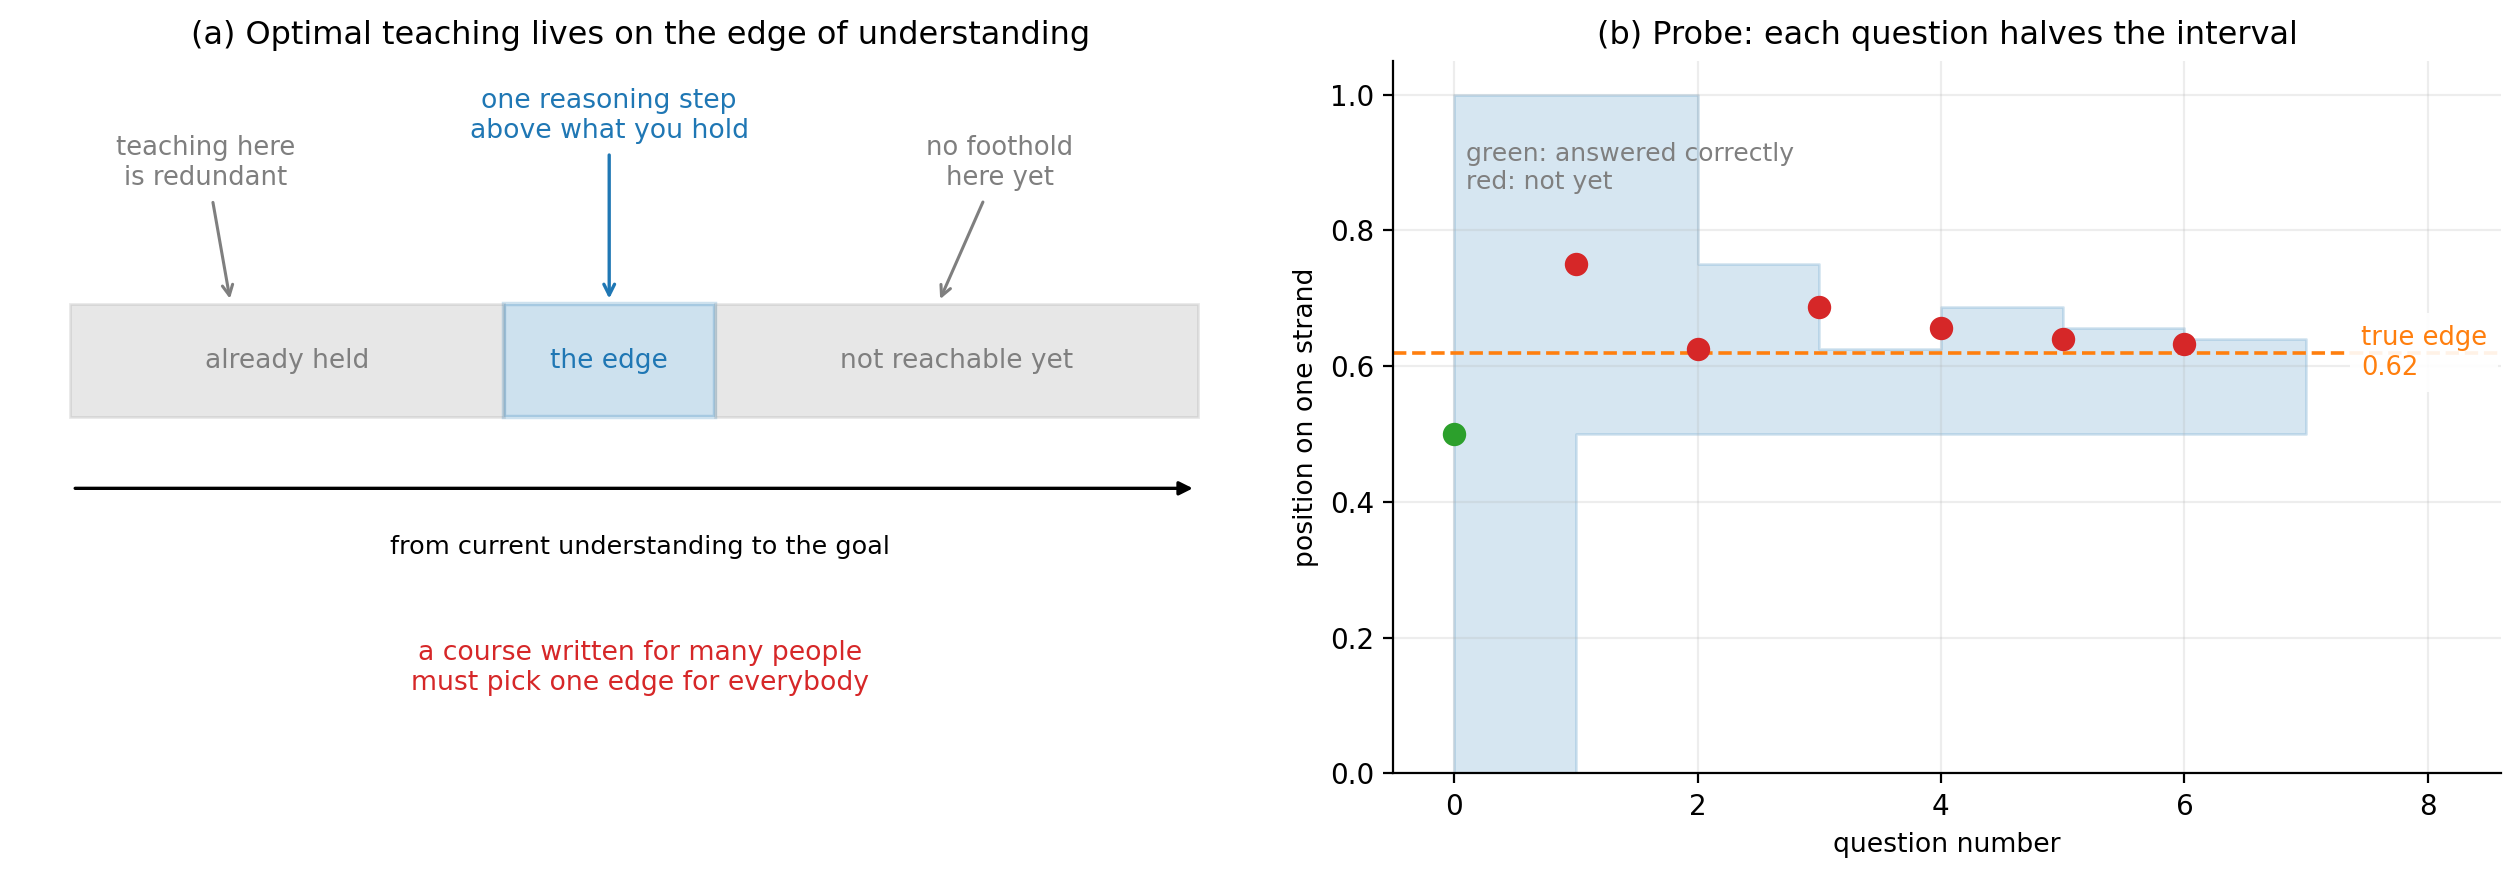
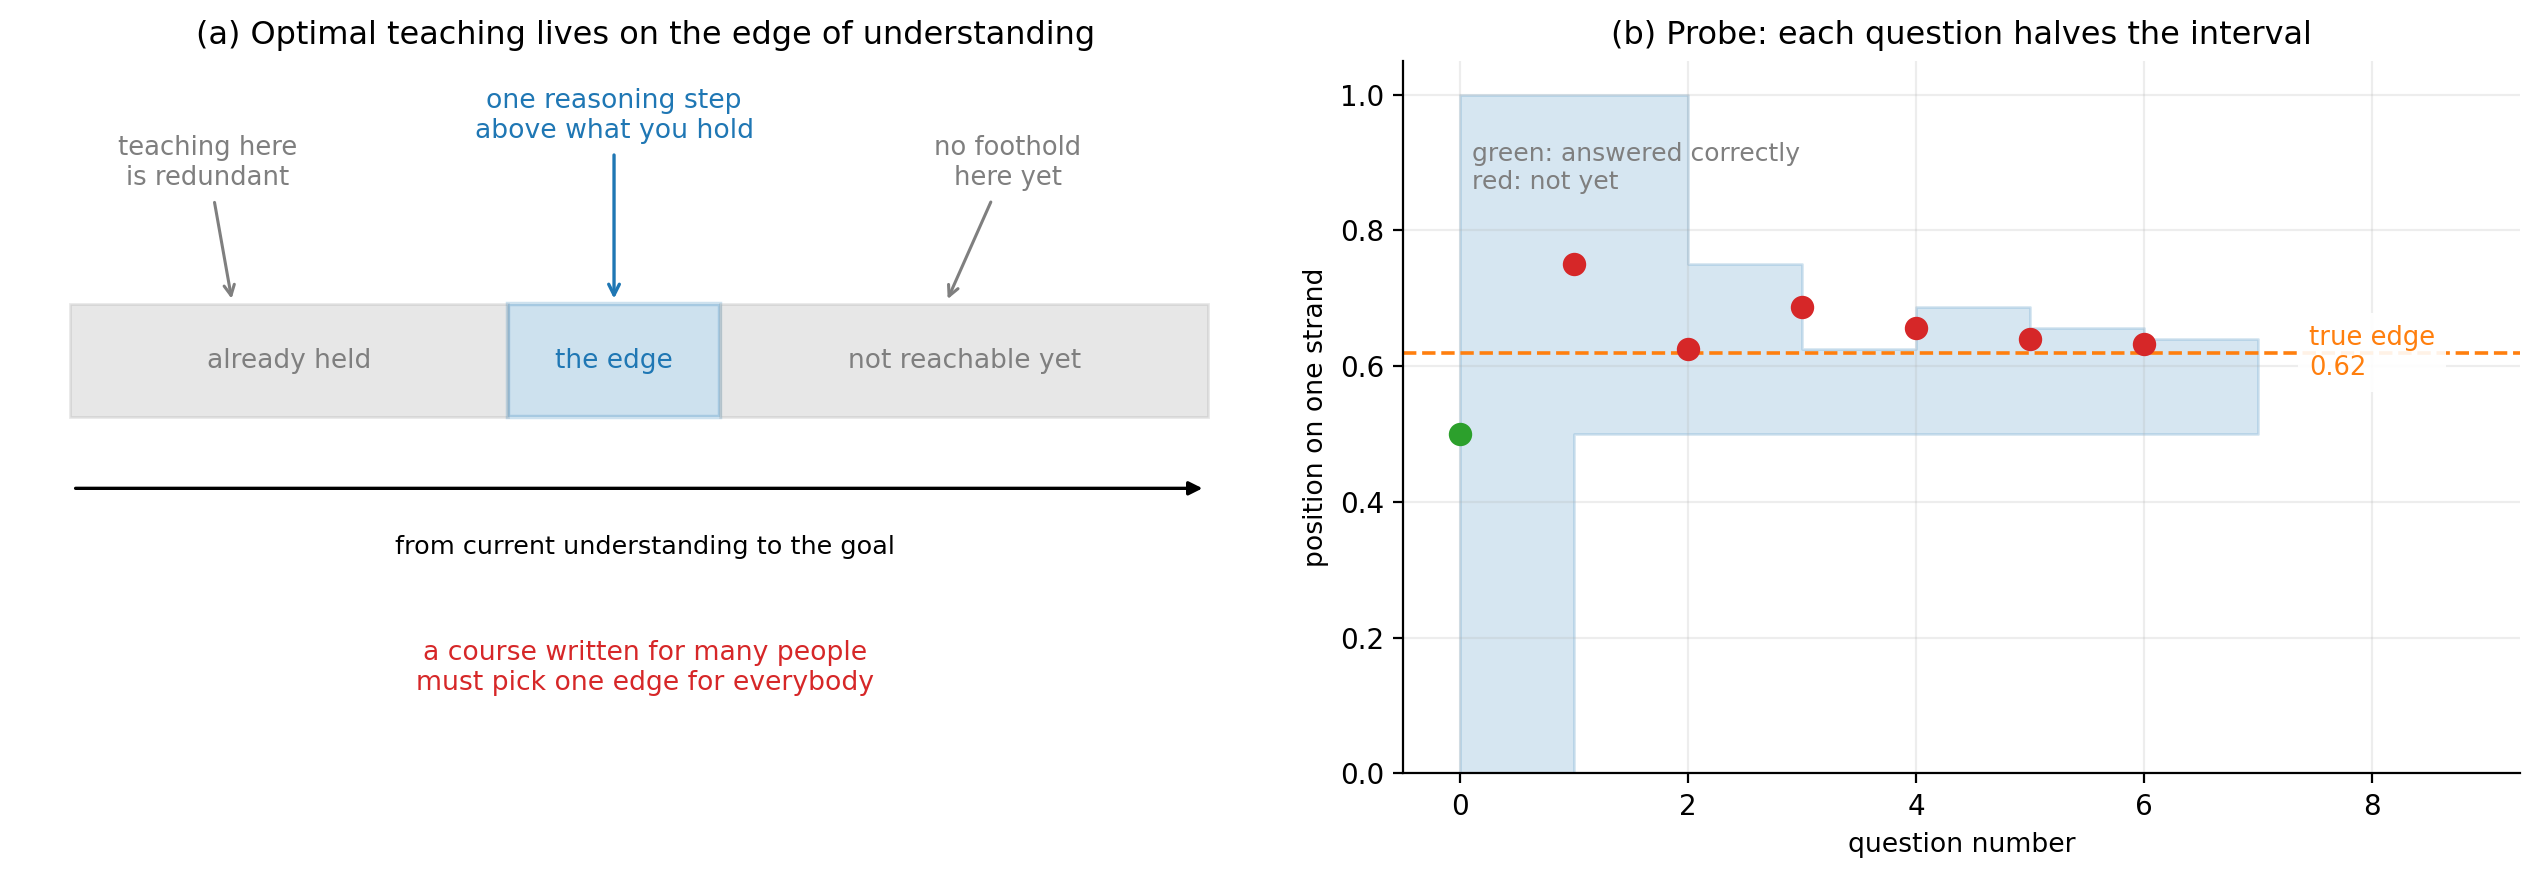
vault backup: 2026-11-06 13:19:31

diff --git a/Sight/assets/make_sight_figs.py b/Sight/assets/make_sight_figs.py
@@ -2331,7 +2331,7 @@ def fig_learning_edge():
             bbox=dict(facecolor="white", edgecolor="none", alpha=0.9))
     ax.text(0.1, 0.93, "green: answered correctly\nred: not yet",
             fontsize=9.0, color=GRAY, va="top")
-    ax.set_xlim(-0.5, 8.6)
+    ax.set_xlim(-0.5, 9.3)
     ax.set_ylim(0, 1.05)
     ax.set_xlabel("question number", fontsize=9.6)
     ax.set_ylabel("position on one strand", fontsize=9.6)
@@ -2414,23 +2414,27 @@ def fig_covector():
 
 def fig_wedge():
     """Wedge product: signed area, antisymmetric, zero on parallel inputs."""
-    fig, axes = plt.subplots(1, 3, figsize=(12.9, 4.5))
+    fig, axes = plt.subplots(1, 3, figsize=(12.9, 3.5))
 
-    def panel(ax, u, w, color, value, title, note):
-        quad = np.array([[0, 0], u, np.array(u) + np.array(w), w])
-        ax.fill(quad[:, 0], quad[:, 1], color=color, alpha=0.22)
-        ax.annotate("", xy=u, xytext=(0, 0),
-                    arrowprops=dict(arrowstyle="-|>", color=BLUE, lw=2.2,
-                                    mutation_scale=16))
+    def panel(ax, u, w, color, value, title, note, parallel=False):
+        if not parallel:
+            quad = np.array([[0, 0], u, np.array(u) + np.array(w), w])
+            ax.fill(quad[:, 0], quad[:, 1], color=color, alpha=0.22)
+        # draw w first so that a parallel u stays visible on top of it
         ax.annotate("", xy=w, xytext=(0, 0),
                     arrowprops=dict(arrowstyle="-|>", color=PURPLE, lw=2.2,
                                     mutation_scale=16))
-        ax.text(u[0] * 0.55 - 0.05, u[1] * 0.55 - 0.32, "$u$",
-                color=BLUE, fontsize=10.5)
-        ax.text(w[0] * 0.55 + 0.10, w[1] * 0.55 + 0.10, "$w$",
-                color=PURPLE, fontsize=10.5)
-        ax.set_xlim(-0.55, 3.9)
-        ax.set_ylim(-0.75, 2.9)
+        ax.annotate("", xy=u, xytext=(0, 0),
+                    arrowprops=dict(arrowstyle="-|>", color=BLUE, lw=2.2,
+                                    mutation_scale=16))
+        ax.text(u[0] * 0.3 - 0.05, u[1] * 0.3 - 0.22, "$u$",
+                color=BLUE, fontsize=10.5, ha="right",
+                bbox=dict(facecolor="white", edgecolor="none", alpha=0.75))
+        ax.text(w[0] * 0.62 + 0.10, w[1] * 0.62 + 0.14, "$w$",
+                color=PURPLE, fontsize=10.5, ha="left",
+                bbox=dict(facecolor="white", edgecolor="none", alpha=0.75))
+        ax.set_xlim(-0.45, 3.5)
+        ax.set_ylim(-0.45, 1.5)
         ax.set_aspect("equal")
         ax.axis("off")
         ax.set_title(title, fontsize=11)
@@ -2443,8 +2447,9 @@ def fig_wedge():
           "(a) $u$ then $w$", "counter-clockwise: area +1")
     panel(axes[1], (0, 1), (1, 0), ORANGE, "$dx\\wedge dy\\,(w,u)=-1$",
           "(b) the two inputs swapped", "clockwise: the sign flips")
-    panel(axes[2], (2, 0.4), (3, 0.6), RED, "$dx\\wedge dy\\,(u,w)=0$",
-          "(c) $w$ parallel to $u$", "no area, so the machine returns 0")
+    panel(axes[2], (1.2, 0.3), (2.0, 0.5), RED, "$dx\\wedge dy\\,(u,w)=0$",
+          "(c) $w$ parallel to $u$", "no area, so the machine returns 0",
+          parallel=True)
 
     fig.suptitle("A wedge product is bilinear and antisymmetric: "
                  "subtracting the two orderings kills the symmetric part",

diff --git a/Sight/AI 私人教师 一对一教学系统.md b/Sight/AI 私人教师 一对一教学系统.md
@@ -1,0 +1,217 @@
+来源：Amos Blomqvist 的视频 *How I Use AI to Learn Things*（[[Raw/How I Use AI to Learn Things]]，YouTube；配套仓库 `github.com/amosblomqvist/learn`）。核心：把“一对一教学”做成系统——先用选择题探测你理解的边界，再画出依赖图规划，然后一次只走一个推理步；把找资料、排顺序、查证这些杂活全部收走，让挣扎只发生在材料里。
+
+## 我们习惯的学习是一个多对多网络
+
+标准模式里，一个出口（老师、书、课程）面向许多学生；同时一个学生又从许多出口学习：
+
+```mermaid
+%%{init: {'theme':'base','themeCSS':'.nodeLabel{color:#E5E7EB!important;fill:#E5E7EB!important}.edgeLabel p{background-color:#131312!important}.edgeLabel{color:#E5E7EB!important}svg{background:transparent!important}','themeVariables':{'primaryColor':'#1E1E2E','primaryTextColor':'#E5E7EB','primaryBorderColor':'#A78BFA','secondaryColor':'#1E1E2E','tertiaryColor':'#1E1E2E','lineColor':'#9CA3AF','textColor':'#E5E7EB','mainBkg':'#1E1E2E','nodeBorder':'#A78BFA','clusterBkg':'#131312','clusterBorder':'#3A3A4A','edgeLabelBackground':'#131312','actorBkg':'#1E1E2E','actorBorder':'#A78BFA','actorTextColor':'#E5E7EB','actorLineColor':'#9CA3AF','signalColor':'#9CA3AF','signalTextColor':'#E5E7EB','labelBoxBkgColor':'#1E1E2E','labelBoxBorderColor':'#A78BFA','labelTextColor':'#E5E7EB','loopTextColor':'#E5E7EB','noteBkgColor':'#1E1E2E','noteBorderColor':'#A78BFA','noteTextColor':'#E5E7EB','stateBkg':'#1E1E2E','stateBorder':'#A78BFA','stateTextColor':'#E5E7EB','transitionColor':'#9CA3AF','transitionLabelColor':'#E5E7EB','fontFamily':'Noto Sans CJK SC, sans-serif','fontSize':'16px'}}}%%
+flowchart LR
+    subgraph OUT["许多出口"]
+        direction TB
+        A1["老师"]
+        A2["书 / 课程"]
+        A3["论文 / 视频"]
+    end
+    subgraph IN["许多学生"]
+        direction TB
+        S1["学生 A"]
+        S2["学生 B"]
+    end
+    A1 --> S1
+    A1 --> S2
+    A2 --> S1
+    A3 --> S2
+classDef default fill:#1E1E2E,stroke:#A78BFA,stroke-width:1.5px,color:#E5E7EB
+linkStyle default stroke:#9CA3AF
+```
+
+两个方向各自产生一种低效。
+
+## 一个出口教许多人
+
+为许多人设计的出口，不可能对其中任何一个人最优。因为“最优”的教学完全取决于学习者当前的理解——既包括从当前理解到目标理解的整条教学弧，也包括途中的每一次解释。
+
+最优路径要同时最小化两种内容：
+
+- 你已经掌握的东西：重复，浪费时间；
+- 你还接不住的东西：没有落点，听完也挂不上去。
+
+所以它恰好工作在**理解的边缘**上：比你已经持有的多一个推理步。理想情况是一个老师只教一个学生。
+
+![[S17_learning_edge.png]]
+*左：教学的三个区间——已掌握、边缘、还够不着；为许多人写的课只能挑一个边缘给所有人。右：探针在每条线索上二分，七道题就把边界夹到 0.01 以内。*
+
+## 一个学生向许多出口学
+
+反方向的成本更隐蔽。每个出口有自己的风格、记号、可靠程度和界面，切换本身要消耗心智努力，而这些努力没有花在材料上。
+
+更深的一层成本是**信任**。面对不熟悉的出口，大脑会留一手：在它证明自己、变得足够熟悉之前，不会完全接受一个事实。用一个例子说明：同一个关于毛球定理（hairy ball theorem）的解释，一个出自 3Blue1Brown 的视频，一个出自 X 上陌生人的帖子。解释逐字相同，但从熟悉的来源学得更好——大脑更容易内化它信任的出口给出的信息。
+
+于是理想情况变成：一个学生也只有一个老师。
+
+## 一对一：换掉接口，不是减少来源
+
+对“只有一个老师”的常见反对是：那你只得到一种视角。Blomqvist 认为这个反对混淆了**来源**和**接口**。老师并不减少来源，他把许多来源聚合起来，通过一个界面交付；丢掉的只是切换成本，不是多样性。
+
+当老师是 AI 时，信任不靠时间积累，而是被**设计进系统**：可靠的核验与事实检查。它有两个作用：
+
+1. 信息正确——不能让模型编造；
+2. 让学习更省力——知道系统可靠时，大脑不必一边学一边防备。
+
+一句话：**一个接口，贴合一个大脑，覆盖所有来源。**
+
+## 两条原则
+
+两个低效对应两条设计原则：
+
+- **最优教学**：教学路径和每一步解释，都按你当前的理解来定；
+- **最优心智资源分配**：把认知资源集中到材料本身。
+
+第二条不等于“降低难度”。恰恰相反，目标是**最大化挣扎**——但要挣扎在材料里，而不是挣扎在后勤上：规划、找资源、验证事实、决定学什么、按什么顺序学。这些都应该由系统吸收。
+
+可以这样记账：同样一小时，如果大半花在找资料、判断该信谁、排学习顺序，真正用于思考的时间就被挤掉了；系统的任务是把比例倒过来。
+
+## 流程：probe → plan → teach
+
+```mermaid
+%%{init: {'theme':'base','themeCSS':'.nodeLabel{color:#E5E7EB!important;fill:#E5E7EB!important}.edgeLabel p{background-color:#131312!important}.edgeLabel{color:#E5E7EB!important}svg{background:transparent!important}','themeVariables':{'primaryColor':'#1E1E2E','primaryTextColor':'#E5E7EB','primaryBorderColor':'#A78BFA','secondaryColor':'#1E1E2E','tertiaryColor':'#1E1E2E','lineColor':'#9CA3AF','textColor':'#E5E7EB','mainBkg':'#1E1E2E','nodeBorder':'#A78BFA','clusterBkg':'#131312','clusterBorder':'#3A3A4A','edgeLabelBackground':'#131312','actorBkg':'#1E1E2E','actorBorder':'#A78BFA','actorTextColor':'#E5E7EB','actorLineColor':'#9CA3AF','signalColor':'#9CA3AF','signalTextColor':'#E5E7EB','labelBoxBkgColor':'#1E1E2E','labelBoxBorderColor':'#A78BFA','labelTextColor':'#E5E7EB','loopTextColor':'#E5E7EB','noteBkgColor':'#1E1E2E','noteBorderColor':'#A78BFA','noteTextColor':'#E5E7EB','stateBkg':'#1E1E2E','stateBorder':'#A78BFA','stateTextColor':'#E5E7EB','transitionColor':'#9CA3AF','transitionLabelColor':'#E5E7EB','fontFamily':'Noto Sans CJK SC, sans-serif','fontSize':'16px'}}}%%
+flowchart TB
+    P["Probe 探针<br/>选择题二分你的边界"] --> M["你的理解地图"]
+    M --> PL["Plan 计划<br/>推出最小教学路径"]
+    PL --> V["查证子 agent"]
+    V --> PL
+    PL --> D["Mermaid 依赖图<br/>逼模型把路走一遍"]
+    D --> T["Teach 教学<br/>一次一个推理步"]
+    T --> Q["小测"]
+    Q -->|"还没懂"| T
+    Q -->|"懂了"| N["下一个节点"]
+    N --> T
+classDef default fill:#1E1E2E,stroke:#A78BFA,stroke-width:1.5px,color:#E5E7EB
+linkStyle default stroke:#9CA3AF
+```
+
+### probe：把边界找出来
+
+系统先用一个 quiz 工具出**可评分的选择题**：从很宽的范围开始，然后沿着这节课依赖的每一条线索（strand）做二分搜索，直到你的对错开始交替。得到的是“你在这条线索上的边界在哪里”的细粒度地图，而不是一个总分。
+
+探针本身也是热身：你不必操心流程，只负责回答，系统负责全部调度。反过来，开场给它的背景越少，探针就越长——演示时 Blomqvist 几乎没给背景，于是被问了一长串问题。
+
+### plan：先把路推一遍
+
+规划阶段做两件事：
+
+- 把“怎么教这个具体的大脑这个东西”完整推理出来；
+- 启动核查事实的子 agent。
+
+然后把计划画成 Mermaid 依赖图。展示图有两个理由，第二个才是真正的原因：
+
+1. 学习者能提前看到将要走的路；
+2. **逼模型把整条路真正推一遍**——有了一张要给人看的图，它就不能含糊其辞、临场发挥。
+
+### teach：一次只走一个推理步
+
+教学阶段取决于你自己的学习哲学。但有一个细节与具体方法无关：**反馈**。AI 会周期性地测验你，理由有三个：
+
+1. 人很容易骗自己“我懂了”，用 AI 学时尤其如此——测验是对自己的反馈；
+2. 系统需要持续的反馈才能保持校准；
+3. 做题、应用本身就在加固理解，新知识是在使用中锁定的。
+
+具体做法上，Blomqvist 让教学一次只走一个推理步，而不是像聊天机器人那样一口气讲完整章。每一步都小到能当场消化，随时可以插问；系统沿着依赖树一格一格往下走。
+
+## 演示：学微分形式
+
+环境是 Pi agent harness 的学习目录。`.pi` 下装了 teach 技能、可视化配置、quiz 扩展、MD log 扩展，以及两个负责画图的子 agent。界面用 Obsidian：MD log 扩展把一个 Markdown 文件绑定到会话，输出实时写进去，LaTeX 正常渲染，还留下每次学习的持久产物。模型本身的智力很关键——教学指令很细，弱模型执行不到位。
+
+目标是微分形式，最终想看懂“麦克斯韦方程组如何用两个方程写出”。
+
+### 探针：从线积分问到狭义相对论
+
+题目都是选择题，例如：
+
+- 力场 $F$ 沿曲线 $C$ 作用，线积分算的是什么？他排除了“只对保守场成立”的选项，选“场对粒子做的功”。
+- 散度是什么？“单位体积的净外通量”。
+- Stokes 定理、Faraday 定律依次确认。
+- 狭义相对论里换到运动参考系，电场和磁场怎么变？他直接答“不知道”；正确答案是“两者混合”——一个参考系里纯电性的场，在另一个参考系里会同时有电和磁的成分。
+
+答“不知道”也是有效信息：它比猜对更能说明边界在哪里。
+
+### 计划：得到什么，先画出来
+
+核查子 agent 在后台工作（数学通常不需要核查，但保持习惯）。计划以 Mermaid 图出现在 Obsidian 里。他看到路径会在到达目标之前先经过广义 Stokes 定理——这正符合“先把依赖补齐”的逻辑。
+
+### 教学：余向量、一形式、楔积
+
+可视化技能会调子 agent 画 SVG：子 agent 写完先自己看图、改、再看，确认无误才交付。放进子 agent 有两个原因：省主上下文，以及它能真的“检查自己的图”。演示中途画图子 agent 报过一次过载错误，重试后继续。
+
+第一个节点是余向量（covector）：一台吃进向量、吐出数字的机器。新视角是：它数的是“穿过多少条等值线”。
+
+取 $\alpha = 3\,dx - 2\,dy$，$v = (2, 5)$：
+
+$$
+\alpha(v) = 3v_x - 2v_y = 3\cdot 2 - 2\cdot 5 = -4 .
+$$
+
+![[S17_covector.png]]
+*左：余向量的等值线族 $3x-2y=c$；从 $c=0$ 走到 $c=-4$，箭头穿过四条线，方向为负。右：$dx$ 数竖线、$dy$ 数横线，$\alpha$ 按 3 和 −2 加权。*
+
+几何上，$\alpha$ 的等值线是 $3x-2y=c$。从原点（$c=0$）走到 $(2,5)$（$c=-4$），箭头穿过四条等值线，方向为负，所以读数是 $-4$。沿着这条路，教学把概念一层层搭上去：
+
+- 把余向量扩展成**余向量场**，线积分就有了新解释：沿曲线累加“穿过等值线的次数”；
+- 所有一维对象上的积分，都是一次形式（one-form）的积分；
+- **k-形式**就是能被 k 维曲面“吃掉”的东西：1-形式吃曲线，2-形式吃曲面，3-形式吃体积；
+- **楔积**（wedge product）：双线性且反对称的机器。最省事的造法是“最古老的技巧”——把两种顺序相乘再相减：
+
+$$
+\alpha\wedge\beta=\alpha\otimes\beta-\beta\otimes\alpha .
+$$
+
+数值检查：$dx\wedge dy\,(e_1,e_2)=1\cdot 1-0\cdot 0=1$；交换两个输入得 $-1$；两个平行向量给出 $0$。
+
+![[S17_wedge.png]]
+*楔积测的是带符号的面积：换序翻号，平行则归零。减掉两种顺序的差，就只剩下反对称部分。*
+
+演示在接近广义 Stokes 定理时结束：
+
+$$
+\int_{\partial\Omega}\omega=\int_{\Omega}d\omega .
+$$
+
+它把边界上的积分和内部的“导数”积分统一起来，散度定理、Stokes 定理、微积分基本定理都是它的特例。用二维散度定理验一下：$F=(x^2,y^2)$ 在单位正方形上，$\nabla\cdot F=2x+2y$，内部积分是 $1+1=2$；四条边上的外通量相加也是 $2$。
+
+## 收尾：起作用的是教学风格，不是管线
+
+Blomqvist 自己说，这套东西对他有效的首要原因不是上面这些工程，而是上一支视频里讲的教学风格。它只影响两件事：
+
+1. **学习弧**：从当前理解到目标理解走哪条路；
+2. **途中的每一步解释**：怎么把这一步说成“显然”。
+
+管线只是把这两件事稳定地执行下来。
+
+## 关联
+
+- [[Sight/Agent Harness 学习闭环]]：另一套把 Probe–Plan–Teach 做成产品的系统，同样强调先探边界、再一步一教。
+- [[Sight/如何避免 AI 脑腐 用 AI 学习而不替代自己]]：为什么必须保留挣扎，以及“让 AI 只给提示”的实验证据。
+- [[Sight/LLM Wiki 持久知识库模式]]：MD log 让单次会话留下产物；把同样的思路放大到整个知识库，就是 wiki 模式。
+
+## 词汇
+
+
+- **allocation** 分配
+- **antisymmetric** 反对称的
+- **bilinear** 双线性的
+- **calibrate** 校准
+- **conflate** 把……混为一谈
+- **covector** 余向量
+- **digest** 消化；理解
+- **gaslight** 使人怀疑自己的判断
+- **hallucinate** 编造；产生幻觉
+- **hedge** 留一手；不轻易接受
+- **inefficiency** 低效；效率损失
+- **internalize** 内化
+- **optimal** 最优的
+- **outlet** 出口；渠道（内容来源）
+- **overloaded** 过载的
+- **periodically** 周期性地
+- **strand** 分支；线索
+- **wedge** 楔积
